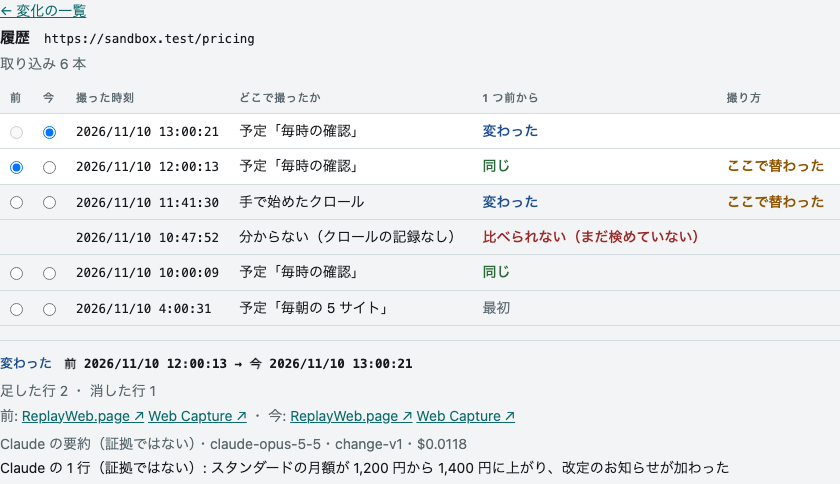
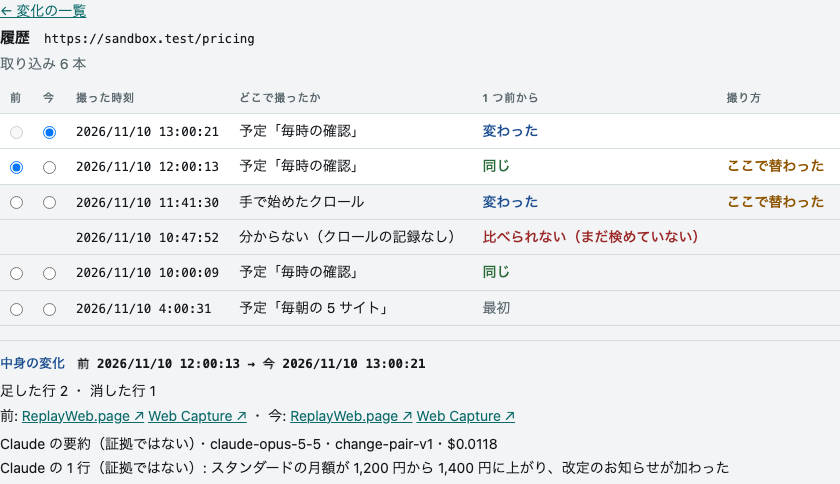
release: v0.59.1 — URL の履歴の残りの直し（末尾の / の手がかり・要約の重さ・差分の枠の字の濃さ）（CAPTURE-462） (#132)
- 取り込みが 1 本も無い URL の履歴に、末尾の / の有無だけを替えた URL の履歴への
  link を出す（capture-ledger は …/group と …/group/ を別の URL として扱う）
- 2 本の差分の見出しは、要約が在れば Claude の付けた重さ（中身の変化・小さい変化・
  意味のある変化なし。変化の 1 ページと同じ字と色）、無ければ「変わった」
- 2 本の差分の枠の中の字を、変化の画面の右のページと同じ濃さにした（同じ部品の行が、
  履歴でだけ薄く出ていた）。薄い向きに揃えると docs の変化の絵が 1 枚の枠を超える
  ので、いままでの変化の画面の見た目に揃えた
- 代役の見本の、手の比較の要約の版を change-pair-v1 に（capture-ledger v0.110.1）
- docs（日本語・英語）と絵 history の撮り直し。絵の枠は上げていない（全部で 400.1 KB）

先に main に入った docs の直し（#131）も、この版に載る。

確かめ: npm run check・npm run site:check（どちらも緑）。壊した形 4 つ（要約の重さを
見ない・同じ 2 本にも重さを出す・path が / だけでも替える・/ を外さず足すだけ）で、
足した試験が赤になることを見た。手元の代役で 3 つの画面を開いて見た。

Claude-Session: https://claude.ai/code/session_01TRqfaRcJDpzCuaiyjiEcr1

diff --git a/public/history.js b/public/history.js
@@ -14,7 +14,7 @@
  * 「証拠ではない」と model・決まりの文の版・費用を言う。字は辞書（`i18n/*.json` の `history.*`）に在る。
  */
 import { errorText, t } from "./i18n.js";
-import { japaneseNote, pageClaudeLine, summaryLine } from "./changes.js";
+import { japaneseNote, pageClaudeLine, significanceMarkOf, summaryLine } from "./changes.js";
 import { routeMissing } from "./fix.js";
 
 /** 同じ URL の取り込みの一覧。`before` は続きを引くときに、前の答えの `next` を渡す。 */
@@ -119,6 +119,34 @@ export const changeMarkOf = (mark) => {
     default:
       return { kind: "bad", text: t("history.change.notComparable", { reason: reasonText(mark.reason) }) };
   }
+};
+
+/**
+ * 2 本の差分の見出しの字と色。要約が在れば Claude の付けた重さ（中身の変化・小さい変化・意味のある変化なし。変化の画面の
+ * 1 ページの見出しと同じ字と色）、無ければ「変わった」。同じ 2 本は「同じ」。差分の無い答え（比べられない）は undefined。
+ */
+export const diffMarkOf = (answer) => {
+  if (answer?.state === "same") return changeMarkOf({ change: "same" });
+  if (answer?.state !== "diffed") return undefined;
+  return significanceMarkOf(answer.significance) ?? changeMarkOf({ change: "changed" });
+};
+
+/**
+ * 末尾の `/` の有無だけを替えた URL。取り込みが 1 本も無い URL の画面が、「こちらではないか」と出す（capture-ledger は
+ * path の末尾の `/` の有無を別の URL として扱う。`https://a.test/group` と `https://a.test/group/` は別）。path が `/` だけの
+ * URL（替えようが無い）と、http(s) の URL として読めない字は undefined。query と `#` より後ろはそのまま残す。
+ */
+export const slashVariantOf = (url) => {
+  let parsed;
+  try {
+    parsed = new URL(String(url));
+  } catch {
+    return undefined;
+  }
+  if (parsed.protocol !== "http:" && parsed.protocol !== "https:") return undefined;
+  if (parsed.pathname === "/") return undefined;
+  parsed.pathname = parsed.pathname.endsWith("/") ? parsed.pathname.slice(0, -1) : `${parsed.pathname}/`;
+  return parsed.toString();
 };
 
 /**

diff --git a/public/app.js b/public/app.js
@@ -173,6 +173,7 @@ import {
   changeMarkOf,
   comparable,
   differsNotes,
+  diffMarkOf,
   historyError,
   historyHash,
   historyPath,
@@ -182,6 +183,7 @@ import {
   parseHistoryHash,
   pickPair,
   reasonText as historyReasonText,
+  slashVariantOf,
   summaryBody,
   summaryLinesOf,
   summaryPath,
@@ -3925,6 +3927,17 @@ const drawHistoryList = () => {
   if (pick.unusable.length > 0) box.append(tag("p", t("history.unusable"), "state bad"));
   if (view.rows.length === 0 && view.next === null) {
     box.append(tag("p", t("history.empty"), "empty"));
+    // capture-ledger は、末尾の / の有無が違う URL を別の物として扱う。取り違えやすいので、替えた URL の履歴へ行けるようにする
+    const variant = slashVariantOf(view.url);
+    if (variant !== undefined) {
+      const hint = tag("p", t("history.empty.hint"), "muted");
+      const other = document.createElement("a");
+      other.href = historyHash(variant);
+      other.textContent = variant;
+      other.className = "mono";
+      hint.append(" ", other);
+      box.append(hint);
+    }
     return;
   }
   if (view.rows.length > 0) {
@@ -4039,10 +4052,9 @@ const drawHistoryChange = () => {
   };
   const answer = change.answer;
   const title = document.createElement("h3");
-  if (answer?.state === "same" || answer?.state === "diffed") {
-    const said = changeMarkOf({ change: answer.state === "same" ? "same" : "changed" });
-    title.append(tag("span", said.text, `state ${said.kind}`));
-  }
+  // 要約が在れば Claude の付けた重さ（変化の画面の 1 ページの見出しと同じ字と色）、無ければ「変わった」か「同じ」
+  const said = diffMarkOf(answer);
+  if (said !== undefined) title.append(tag("span", said.text, `state ${said.kind}`));
   title.append(tag("span", t("history.diff.title", { before: when(change.beforeId), after: when(change.afterId) }), "mono"));
   pane.append(title);
   if (change.error !== undefined) {

diff --git a/public/changes.js b/public/changes.js
@@ -48,6 +48,15 @@ export const significanceText = (significance) =>
 const SIGNIFICANCE_KIND = { none: "ok", minor: "warn", content: "content" };
 
 /**
+ * 重さの字と色（`{ kind, text }`）。変化の画面の目次と、履歴の画面の 2 本の差分の見出し（CAPTURE-462）が使う。重さが無ければ
+ * undefined（要約がまだ無い）。
+ */
+export const significanceMarkOf = (significance) =>
+  significance === null || significance === undefined
+    ? undefined
+    : { kind: SIGNIFICANCE_KIND[significance] ?? "", text: significanceText(significance) };
+
+/**
  * 回の変化の字と色（予定の回の欄と、一覧の 1 行）。`change` は capture-ledger の `recentRuns[].change` か一覧の 1 行。
  * 無ければ「—」（まだ比べていない・古い capture-ledger）。
  */

diff --git a/public/app.css b/public/app.css
@@ -2350,6 +2350,16 @@ body[data-face="scripts"] main {
   color: var(--muted);
 }
 
+/*
+ * 2 本の差分の枠（#history-change）の中は、薄くしない。この枠は変化の画面の右のページ（#change-pane）と同じ部品
+ * （drawChangePage）で描く。変化の画面には muted を薄くする規則が無く、足した行と消した行の数・前と今の再生の link の
+ * 行は濃いまま出てきた。同じ部品の行が 2 つの画面で違う濃さにならないように、いままでの変化の画面に揃える
+ * （CAPTURE-462。薄い向きに揃えると、docs の変化の絵が 1 枚の枠を超える）。
+ */
+#history-change .muted {
+  color: inherit;
+}
+
 #history-head h2 {
   display: flex;
   flex-wrap: wrap;

diff --git a/docs-site/src/content/docs/screens.md b/docs-site/src/content/docs/screens.md
@@ -758,7 +758,9 @@ It is not limited to scheduled runs: captures from a crawl started by hand are l
   [changes view](#changes), press the URL in its heading. From a row, the history opens with that row's capture picked as After and the first older
   capture that can be compared as Before. The ledger normalizes the pasted URL before looking it up (the host name in
   lower case, an empty path as `/`, everything after `#` dropped), and the URL of the view is rewritten to the
-  normalized one. A trailing `/` in the path and the order of the query are left as they are.
+  normalized one. A trailing `/` in the path and the order of the query are left as they are. For a URL with no capture
+  at all, the view says so and, under it, links to the history of the URL that differs only by the trailing `/`
+  (`…/group` and `…/group/` are different URLs, and easy to mix up).
 - **The table is newest first.** Its columns are the **Before** (前) and **After** (今) radio buttons, **Captured at**
   (撮った時刻), **Captured by** (どこで撮ったか: the schedule's name, or a crawl started by hand), **Since the one before**
   (1 つ前から), **Recipe** (撮り方) and the BrowserHive version. The table holds one batch from the ledger, with
@@ -787,7 +789,9 @@ It is not limited to scheduled runs: captures from a crawl started by hand are l
 - **A summary is made only when you ask.** Two captures with a diff get **Have Claude summarize** (Claude に要約させる).
   Pressing it calls Claude through the ledger and shows `Claude's summary (not evidence)` (Claude の要約（証拠ではない）)
   with the model, the prompt version and the cost, Claude's line, and the quotes (clicking a quote moves to its diff
-  line). A summary already made for the same diff is shown without pressing, and is not paid for twice. The cost counts
+  line). With a summary, the mark in the diff's heading changes from **Changed** (変わった) to the weight Claude gave
+  (change of content, small change, nothing that matters: the same words and colours as one page in the
+  [changes view](#changes)). A summary already made for the same two captures is shown without pressing, and is not paid for twice. The cost counts
   toward the monthly limit of the organization of the crawl that took the After capture. When the monthly limit is
   reached, when Claude does not answer, or when the ledger has no summary route (a deployment without Claude's key),
   each is said in its own words.
